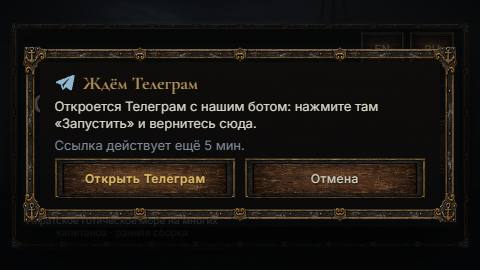
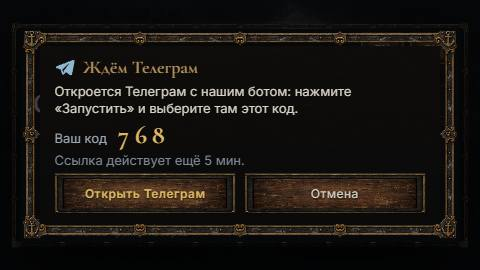
docs/27 §1.2, §1.3, §4, §6: the code match; the QA plays the bot's code buttons (a wrong code checked on the card); the code in lining figures

Changed region(s): [[0.0312, 0.1185, 0.9688, 0.8889], [0.9062, 0.4741, 0.9688, 0.5333], [0.9062, 0.563, 0.9375, 0.5926]]

diff --git a/client/tg.css b/client/tg.css
@@ -44,7 +44,7 @@
 #tg-wait .tgw-left { margin: 0; font-size: 13px; min-height: 1.3em; }
 /* the code to pick in the bot (three are offered there, one is this) */
 #tg-wait .tgw-code { display: flex; align-items: baseline; gap: 10px; margin: 0; color: var(--fog, #9aa3a8); font-size: 13px; }
-#tg-wait .tgw-code b { font-family: 'Cormorant Garamond', Georgia, serif; font-size: clamp(26px, 8vh, 36px); line-height: 1; letter-spacing: 0.18em; color: var(--gold, #d8b45c); font-variant-numeric: tabular-nums; }
+#tg-wait .tgw-code b { font-family: Inter, system-ui, sans-serif; font-weight: 600; font-size: clamp(24px, 7.5vh, 34px); line-height: 1; letter-spacing: 0.16em; color: var(--gold, #d8b45c); font-variant-numeric: lining-nums tabular-nums; }
 #tg-wait .tgw-left.bad { color: #e08a7a; }
 #tg-wait .tgw-left.good { color: #a9c79a; }
 #tg-wait .tgw-btns { display: flex; gap: 8px; flex-wrap: wrap; }

diff --git a/docs/27_TELEGRAM.md b/docs/27_TELEGRAM.md
@@ -20,11 +20,14 @@
 
 ### 1.2. «Войти через Телеграм» на сайте
 Кнопка стоит под «Отчалить гостем» и над «Войти в учётную запись». На 270 px высоты две кнопки встают в ряд: «Отчалить гостем | Телеграм». BotFather настраивать не нужно, это deep-link:
-1. Клиент: `POST /auth/tg/start`, в ответ одноразовый nonce и `https://t.me/gravetide_bot?start=login_<nonce>`.
+1. Клиент: `POST /auth/tg/start`, в ответ одноразовый nonce, трёхзначный **код** и `https://t.me/gravetide_bot?start=login_<nonce>`.
 2. Ссылка открывается сразу. Если браузер её заблокировал, на карточке ожидания есть кнопка «Открыть Телеграм».
-3. Карточка «Ждём Телеграм» опрашивает `GET /auth/tg/poll?nonce=` каждые 2 с, не дольше 5 мин.
-4. Бот на `/start login_<nonce>` привязывает nonce к пользователю Telegram и отвечает «Готово, вернитесь в игру: вход выполнен».
-5. Следующий опрос **один раз** отдаёт игровой токен, после этого nonce удалён.
+3. Карточка «Ждём Телеграм» показывает «Ваш код 768» и опрашивает `GET /auth/tg/poll?nonce=` каждые 2 с, не дольше 5 мин.
+4. Бот на `/start login_<nonce>` **ничего не привязывает**. Он спрашивает: «Вход в GRAVETIDE: выберите код, который показан на вашем экране». При привязке вопрос другой: «Привязать Телеграм к капитану «Имя»?».
+   - Под вопросом строки «Вход с нового устройства: Chrome, Android, 12:04 (МСК)» и «Если вы не начинали это в игре сами — ничего не нажимайте».
+   - Три инлайн-кнопки (`callback_query`): настоящий код и два ложных, в случайном порядке.
+5. Только верный код привязывает nonce, и сообщение бота меняется на «Готово, вернитесь в игру: вход выполнен». Неверный код убивает nonce, и карточка пишет «Код не совпал, попробуйте снова». Nonce тоже умирает, если ту же ссылку открыл второй пользователь Telegram или вышел срок. Кнопку чужого вопроса нажать нельзя: «Это подтверждение не для вас».
+6. Следующий опрос **один раз** отдаёт игровой токен, после этого nonce удалён. Пока код не выбран, опрос отвечает только `wait`.
 
 Правила для nonce:
 - одноразовые, живут 10 мин;
@@ -39,7 +42,7 @@
 Запрос проверяется по заголовку `X-Telegram-Bot-Api-Secret-Token`. Секрет берётся из `TELEGRAM_WEBHOOK_SECRET`, а если его нет — SHA-256 токена (hex). Без секрета ответ 401.
 
 При старте сервера, если есть токен:
-- `setWebhook` на `<PUBLIC_URL>/tg/webhook` с `allowed_updates: [message, pre_checkout_query]`;
+- `setWebhook` на `<PUBLIC_URL>/tg/webhook` с `allowed_updates: [message, callback_query, pre_checkout_query]`;
 - `setChatMenuButton`: web_app «Играть» → `TG_PUBLIC_URL`;
 - `setMyCommands` на EN и RU.
 
@@ -48,7 +51,8 @@
 | Обновление | Что делает |
 |---|---|
 | `/start` | приветствие и инлайн-кнопка web_app «Играть» |
-| `/start login_<nonce>` | вход или привязка (см. выше) |
+| `/start login_<nonce>` | вопрос «выберите код» с тремя кнопками (см. выше) |
+| `callback_query` `tgc:<nonce>:<код>` | верный код привязывает nonce, неверный убивает его |
 | `/paysupport`, `/terms` | короткие тексты RU/EN (их требует Telegram для Stars) |
 | `/refund <charge_id>` | возврат; только для id из `TELEGRAM_ADMIN_IDS` |
 | `pre_checkout_query` | проверяет payload (аккаунт, пакет, цена в XTR) и сразу отвечает `answerPreCheckoutQuery`; при отказе пишет причину |
@@ -106,10 +110,10 @@
 Маршруты стоят **перед** `/auth/*` (у тех свой лимит 20/мин, а опрос сам делает 30/мин). Код: `server/src/telegram.ts` (сервис), `server/src/http/tg-routes.ts` (маршруты) и три строки в `server/src/main.ts`. `auth.ts` и `auth-routes.ts` не тронуты.
 
 ## 4. Как проверить
-- **Тесты:** `node --test tests/telegram.test.ts` — 15 тестов на поддельном Bot API (`fakeBotApi`). Что проверяют:
+- **Тесты:** `node --test tests/telegram.test.ts` — 16 тестов на поддельном Bot API (`fakeBotApi`). Что проверяют:
   - initData: годный, подделанный, старый, от другого бота, с `signature`;
   - вход через мини-приложение: уникальное имя, токен сохраняется;
-  - deep-link: nonce одноразовый, истекает через 10 мин, лимиты на адрес;
+  - deep-link: верный код привязывает; неверный, подделанный или нажатый вторым пользователем код убивает nonce; без выбранного кода опрос не отдаёт токен; никем не открытый и открытый, но не подтверждённый nonce истекает через 10 мин; лимиты на адрес;
   - привязку и отказ «уже привязан», потом e-mail через claim;
   - тексты бота, `setup` (вебхук, меню, команды);
   - инвойс XTR без provider_token; pre-checkout (цена, пакет, аккаунт, валюта);
@@ -132,5 +136,5 @@
 ## 6. Открытое
 - Nonce живут в памяти одного процесса. В режиме нескольких зон (ZONE=…) вход через Telegram должен попадать в тот процесс, куда nginx шлёт `/auth` и `/tg`.
 - Telegram-аккаунт всё ещё один токен на аккаунт. Вход на другом устройстве выбивает первое — так же, как e-mail.
-- **Риск фишинга у deep-link** (так устроен поток по заданию: бот сразу отвечает «Готово»). Злоумышленник может создать nonce и прислать жертве ссылку `t.me/gravetide_bot?start=login_…`. Если жертва нажмёт «Запустить», опрос злоумышленника получит вход в аккаунт жертвы. С привязкой наоборот: Telegram жертвы окажется привязан к чужому капитану. Предлагаемая защита — подтверждение в боте: «Войти как капитан X? Код на экране игры: 4821», ответ кнопкой обычной клавиатуры (это тоже `message`, новых allowed_updates не нужно). Код показывать на карточке «Ждём Телеграм». Не делал: это меняет поток, который задал лид.
+- **Риск фишинга у deep-link закрыт сверкой кода** (2026-10-11, по просьбе лида). Раньше злоумышленник мог прислать жертве свою ссылку `login_…`: стоило ей нажать «Запустить», и он входил в её аккаунт; при привязке — наоборот, Telegram жертвы оказывался у чужого капитана. Теперь бот привязывает nonce только после выбора кода, а код виден только на экране того, кто начал вход. Жертва его не знает. Если она всё же нажмёт наугад, попадёт с вероятностью 1 из 3, и любая ошибка убивает nonce. Остаток риска можно урезать: больше вариантов (5 кнопок — 1 из 5) или ввод кода текстом (1 из 900). Остаётся социальная инженерия («скажи мне цифры»). От неё — строка с устройством и временем и предупреждение «если вы не начинали это в игре сами — ничего не нажимайте».
 - На настоящем телефоне Telegram не проверялся (токена локально нет). После выкладки стоит открыть бота и пройти: «Играть» → капитан → лавка → покупка за 1 пакет → `/refund` по charge id из лога (строка `[tg] paid: … charge <id>`).
